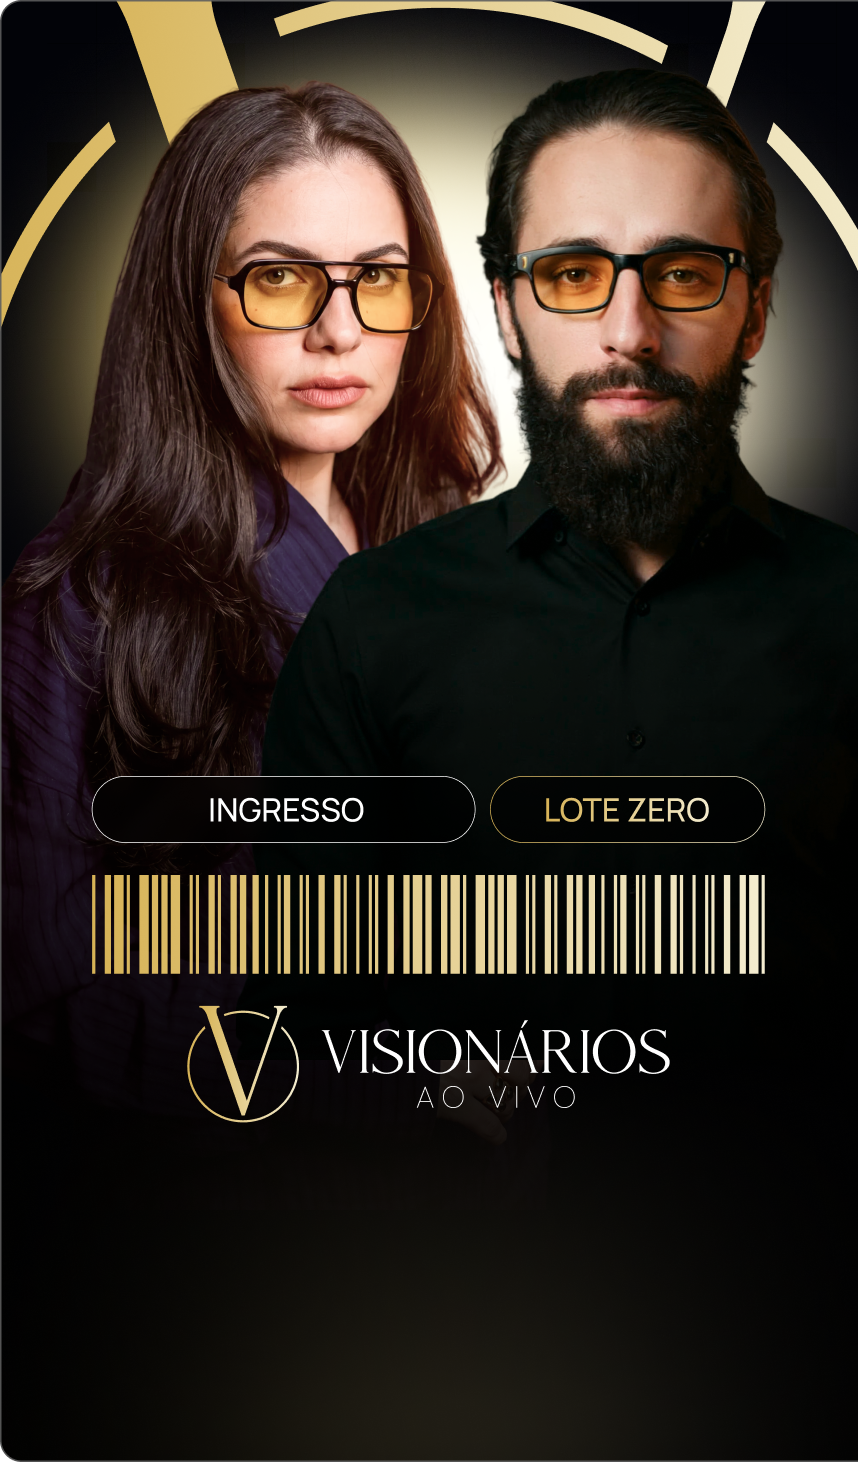
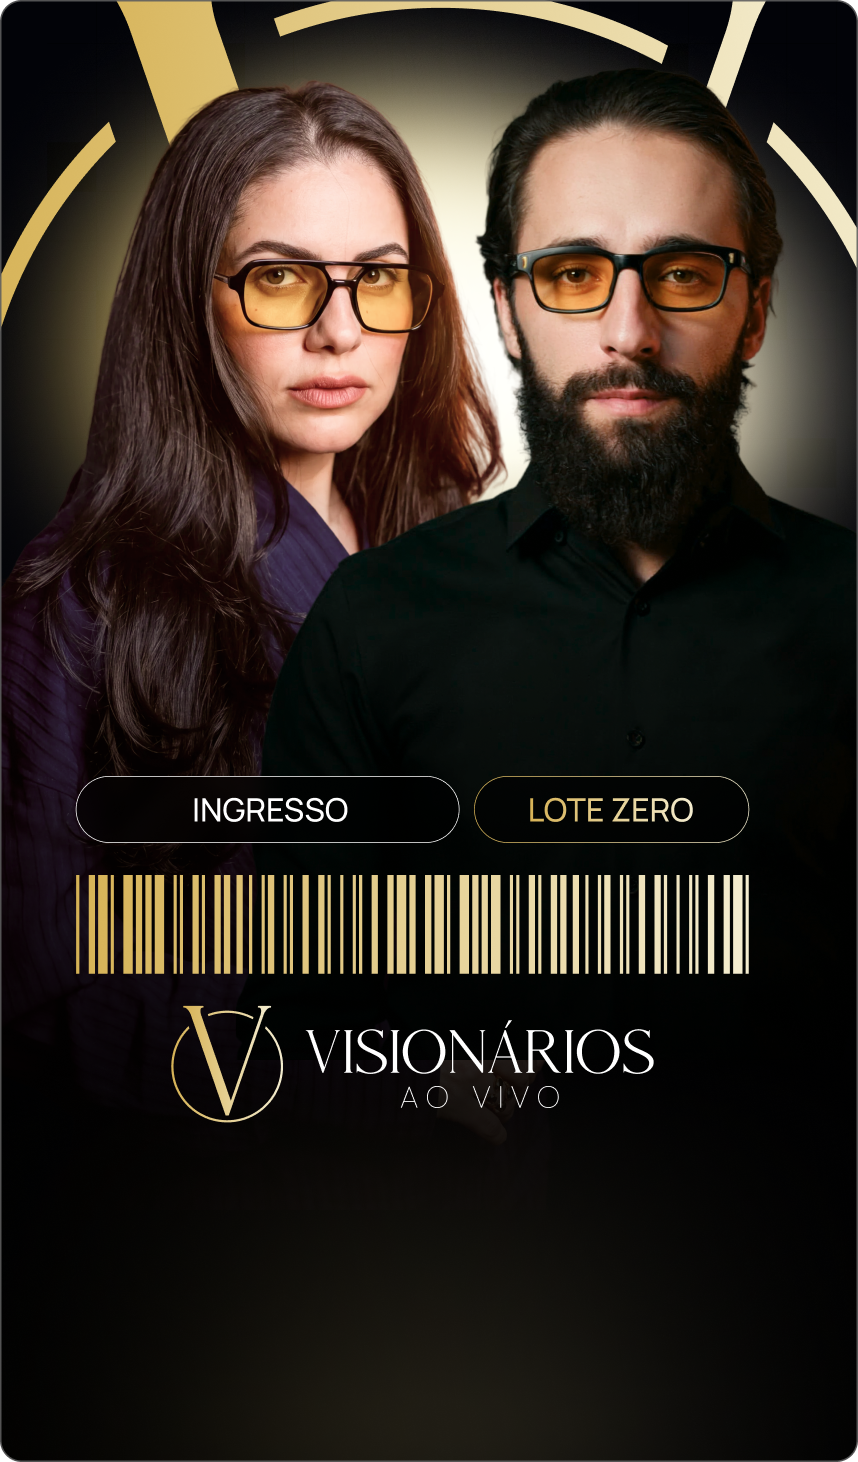
Sprint com linha do tempo vertical e lista do preco equilibrada
Sprint: sai o box com a borda em movimento e a linha do tempo horizontal.
Foto a esquerda, texto a direita e uma linha do tempo vertical: um fio
continuo em degrade descendo, quatro marcos nele, e o ultimo aceso porque
e onde a promessa aterrissa. A headline desce de 64px para 36.8px, que e
o tamanho de subtitulo de bloco e nao de titulo de secao.

Lista do Lote Zero: a medida do texto passa a 40ch com text-wrap balance.
Com a largura toda, um item cabia em uma linha e outro deixava "mao."
sozinha no fim. Agora os quatro caem em duas linhas com as metades
proximas: a segunda linha mais curta tem 214px de 425 disponiveis.

Boxes do regressivo com padding de verdade: 66x61 no lugar de 50x44.

Arte do ingresso trocada pela nova versao.

Claude-Session: https://claude.ai/code/session_013jajXCUfWYegnKyb6rfXJy

diff --git a/src/styles/global.css b/src/styles/global.css
@@ -38,14 +38,6 @@
   color-scheme: dark;
 }
 
-/* Ângulo registrado: sem isto o navegador não sabe interpolar o conic-gradient
-   e a borda em movimento fica parada. */
-@property --turn {
-  syntax: '<angle>';
-  inherits: false;
-  initial-value: 0deg;
-}
-
 *, *::before, *::after { box-sizing: border-box; }
 
 html { -webkit-text-size-adjust: 100%; scroll-behavior: smooth; overflow-x: clip; }
